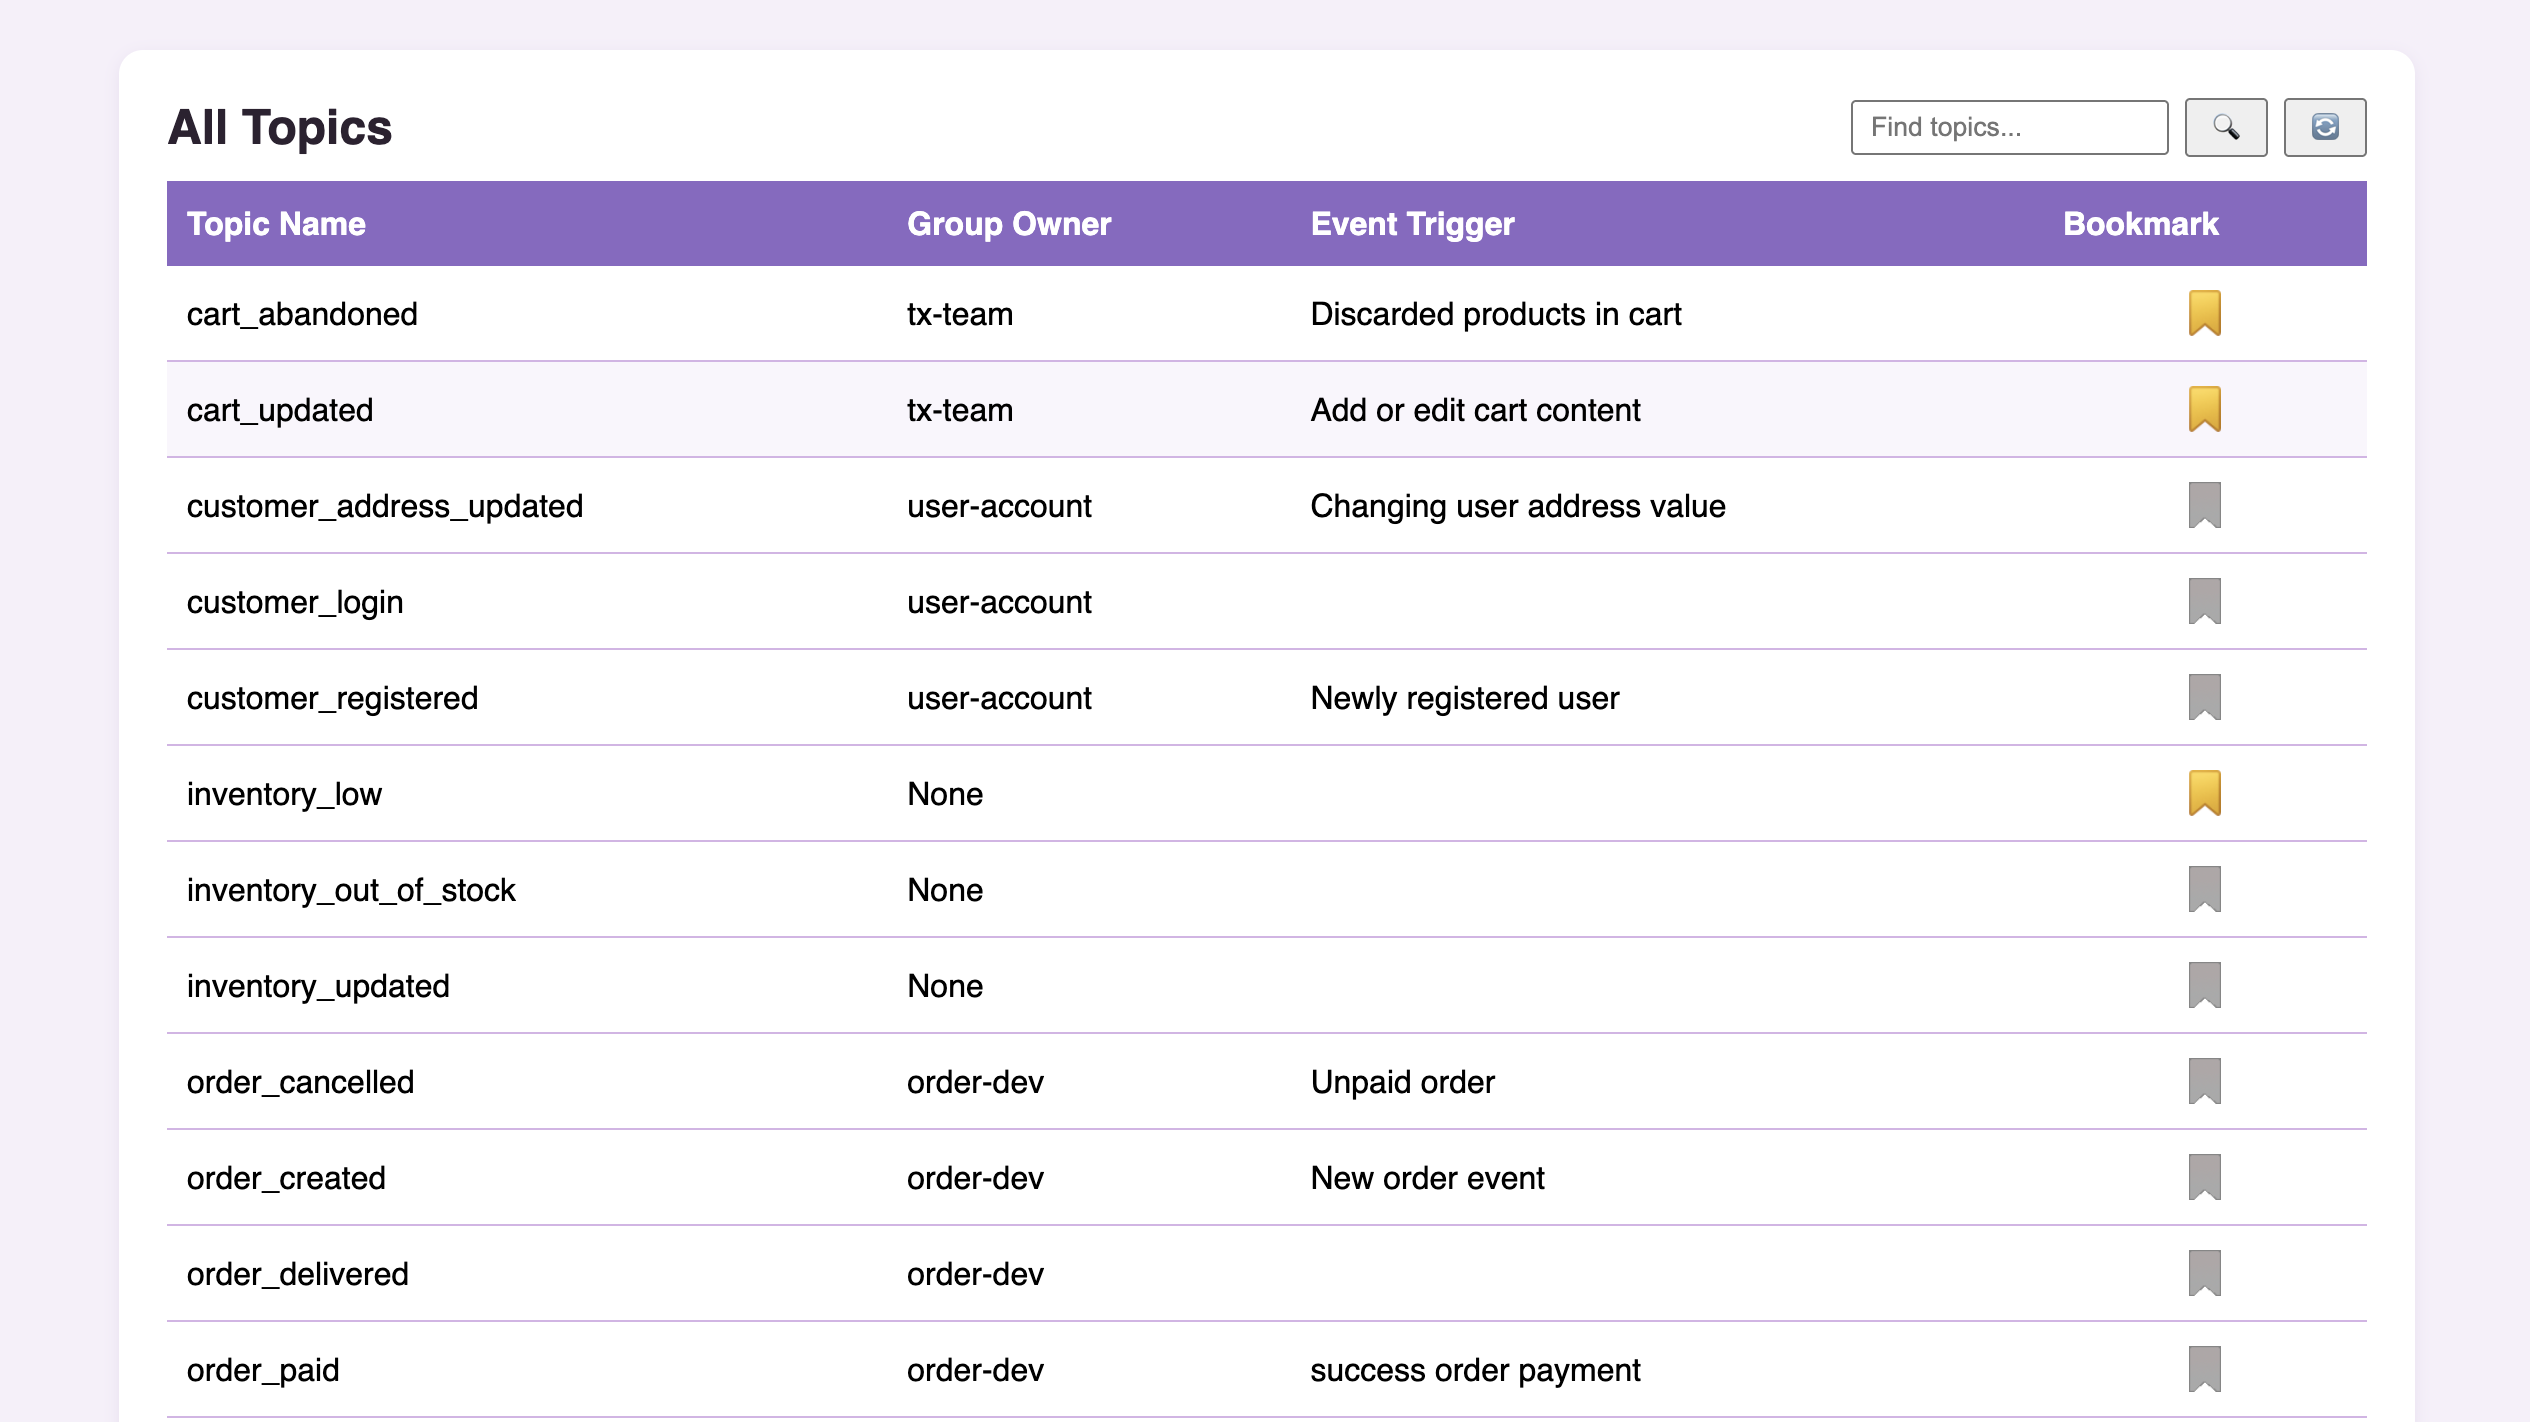
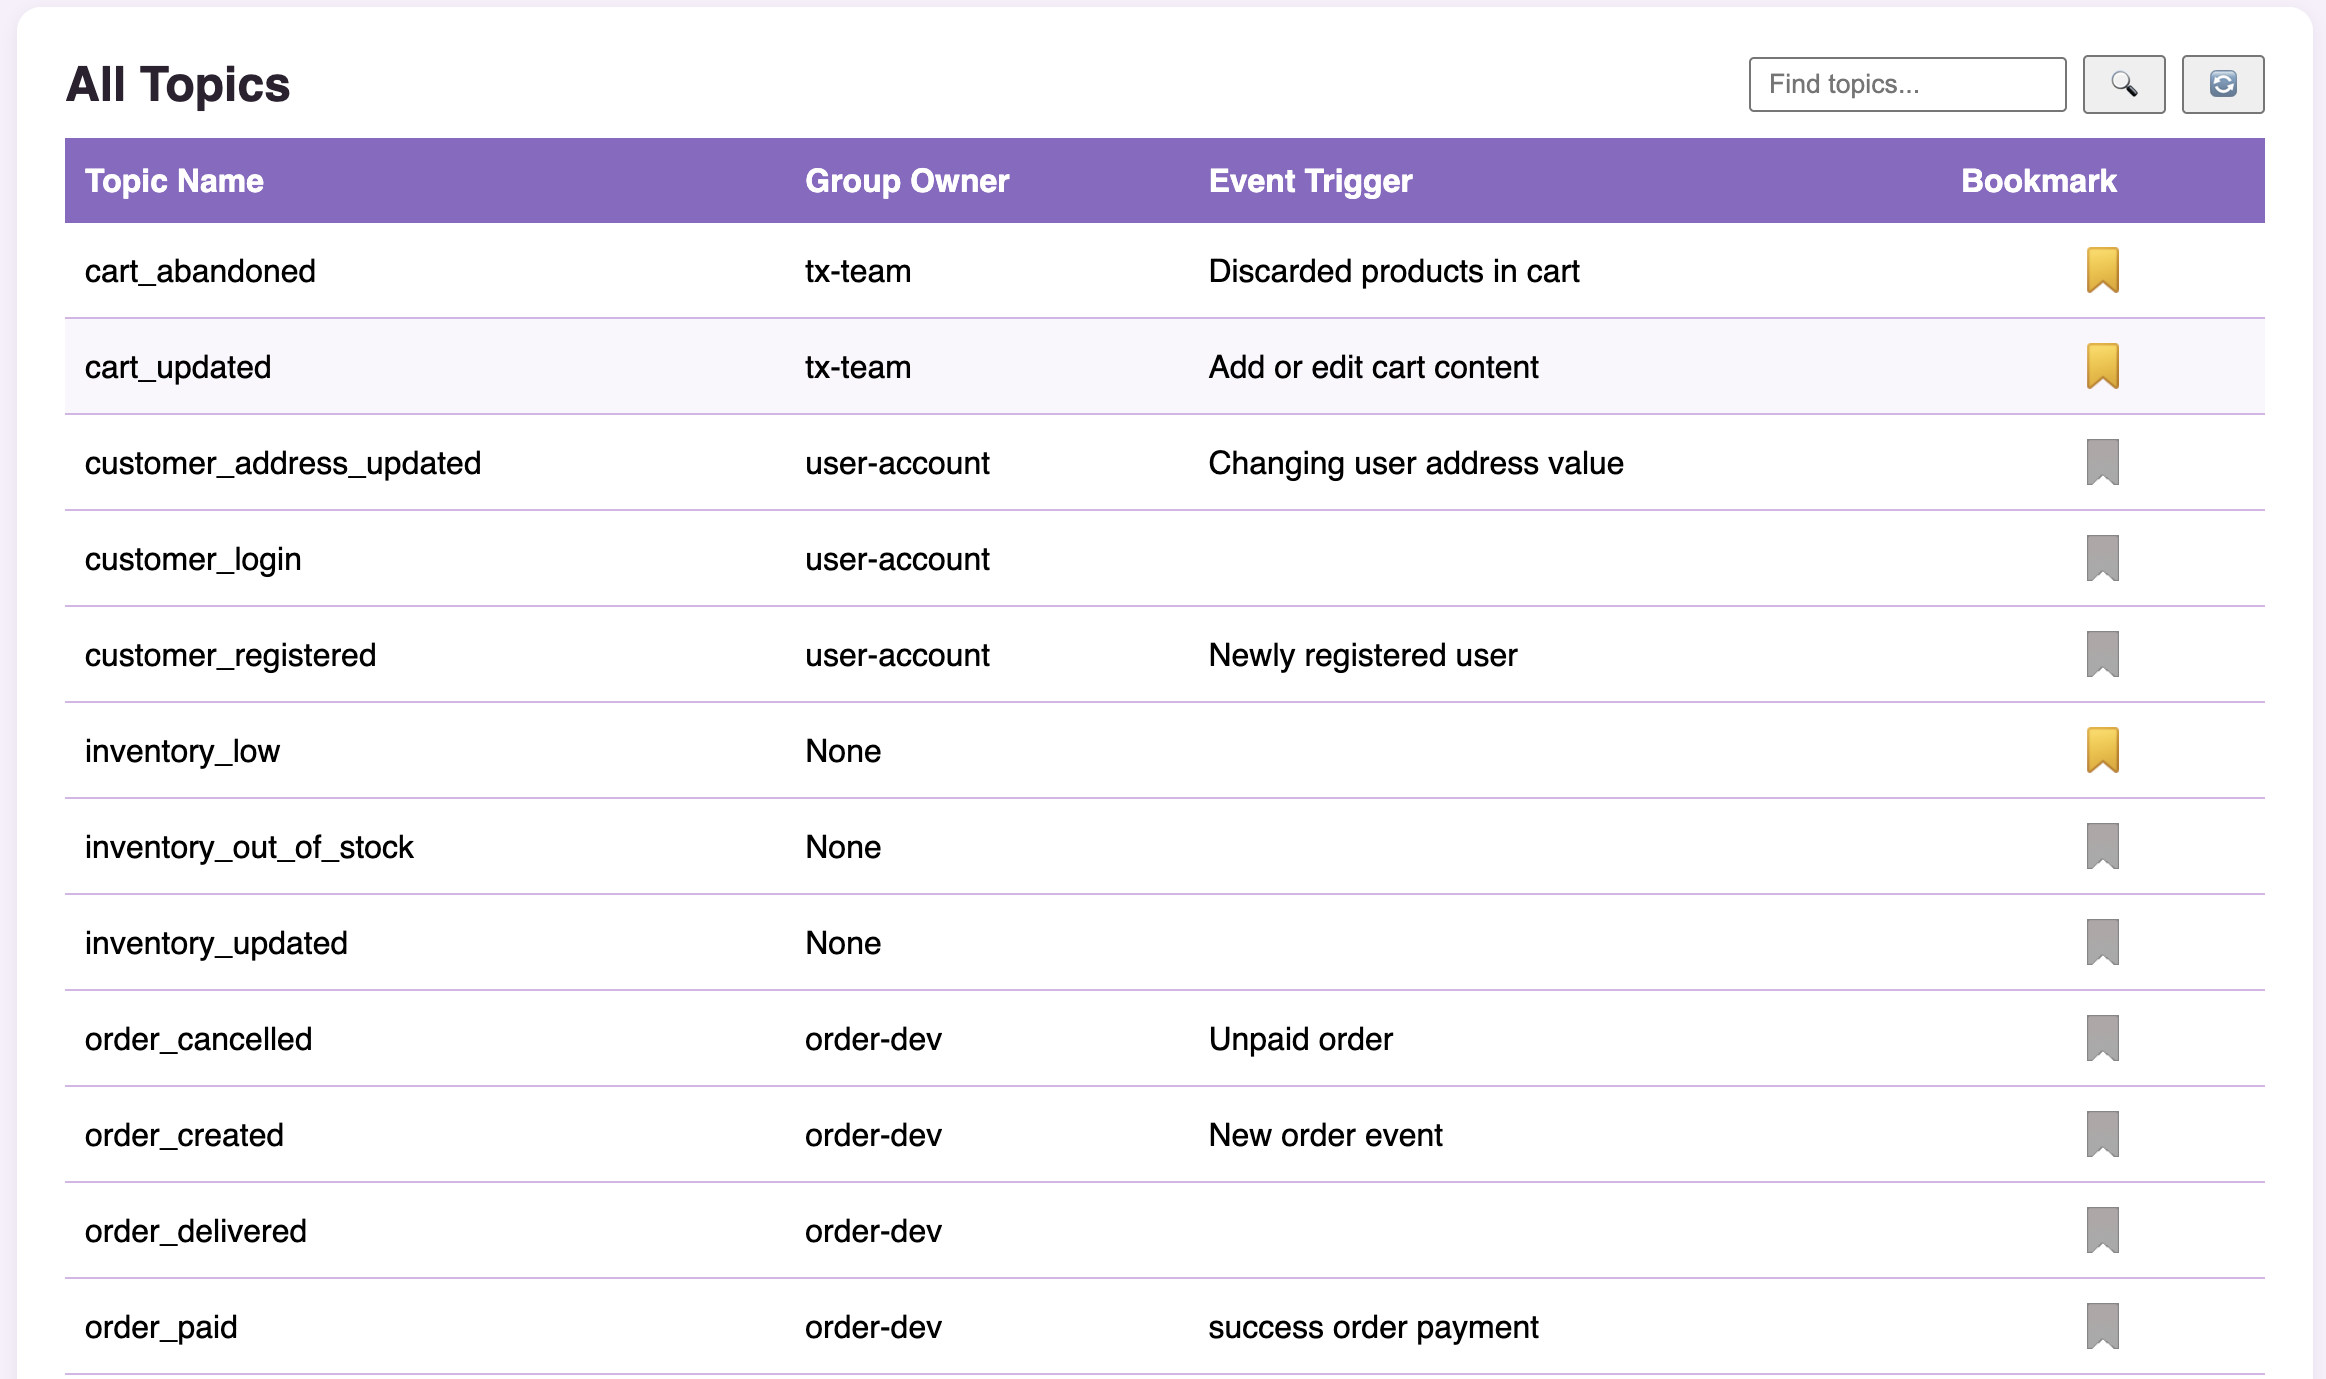
feat(docs): enhance index page with slideshow and update Makefile for test setup

diff --git a/docs/assets/css/custom.css b/docs/assets/css/custom.css
@@ -5,7 +5,7 @@
   } */
 
 .nav-container{
-    background: linear-gradient(90deg, purple 0%, yellow 60%, white 100%);
+    background: linear-gradient(90deg, purple 0%, yellow 80%, white 100%);
 }
 
 .button {

diff --git a/docs/content/_index.md b/docs/content/_index.md
@@ -30,7 +30,24 @@ custom_css: ["/css/custom-index.css"]
     </div>
   </div>
   <div style="flex: 1; min-width: 600px; display: flex; justify-content: center; align-items: center;">
-    <img src="/images/docs/alltopics.png" alt="Hero image" style="max-width: 100%; height: auto; border-radius: 1rem; box-shadow: 0 4px 16px rgba(0,0,0,0.08);" />
+    <div style="background:rgb(240, 232, 253); border-radius: 1.5rem; padding: 2rem; width: 100%; max-width: 700px; display: flex; justify-content: center; align-items: center; box-sizing: border-box;">
+      <div id="slideshow" style="position: relative; width: 100%; max-width: 600px; aspect-ratio: 16/9; display: flex; justify-content: center; align-items: center;">
+        <img src="/images/docs/alltopics.png" alt="All Topics" class="slide-img" style="position: absolute; width: 100%; height: auto; border-radius: 1rem; box-shadow: 0 4px 16px rgba(0,0,0,0.08); opacity: 1; transition: opacity 0.5s;" />
+        <img src="/images/docs/topic detail.png" alt="Topic Detail" class="slide-img" style="position: absolute; width: 80%; height: auto; border-radius: 1rem; box-shadow: 0 4px 16px rgba(0,0,0,0.08); opacity: 0; transition: opacity 0.5s;" />
+        <img src="/images/docs/user list.png" alt="User List" class="slide-img" style="position: absolute; width: 100%; height: auto; border-radius: 1rem; box-shadow: 0 4px 16px rgba(0,0,0,0.08); opacity: 0; transition: opacity 0.5s;" />
+      </div>
+    </div>
+    <script>
+      (function() {
+        var slides = document.querySelectorAll('#slideshow .slide-img');
+        var current = 0;
+        setInterval(function() {
+          slides[current].style.opacity = 0;
+          current = (current + 1) % slides.length;
+          slides[current].style.opacity = 1;
+        }, 3000);
+      })();
+    </script>
   </div>
 </div>
 
